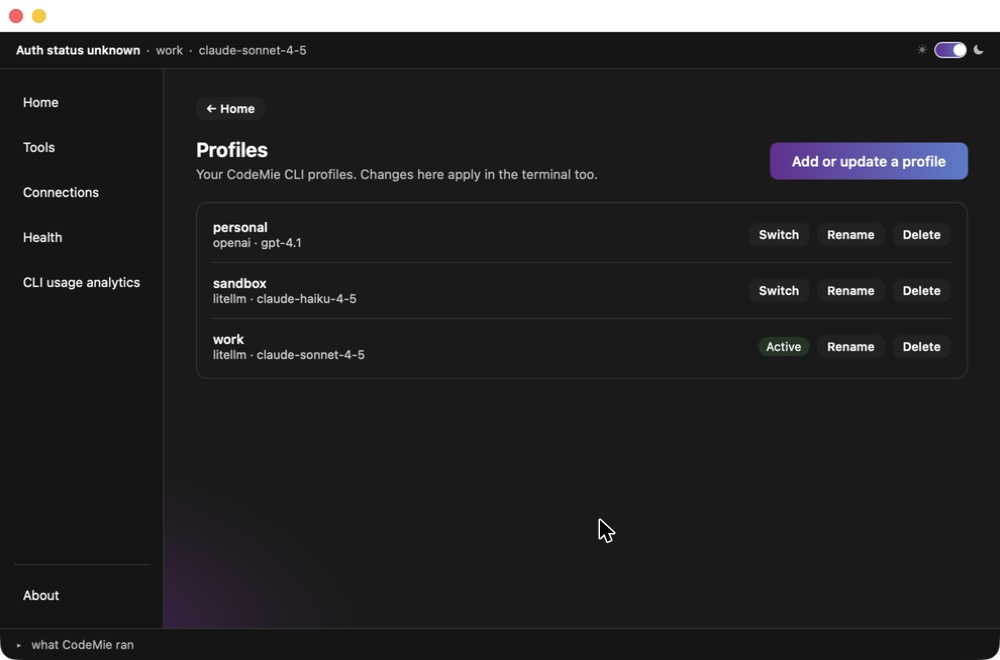
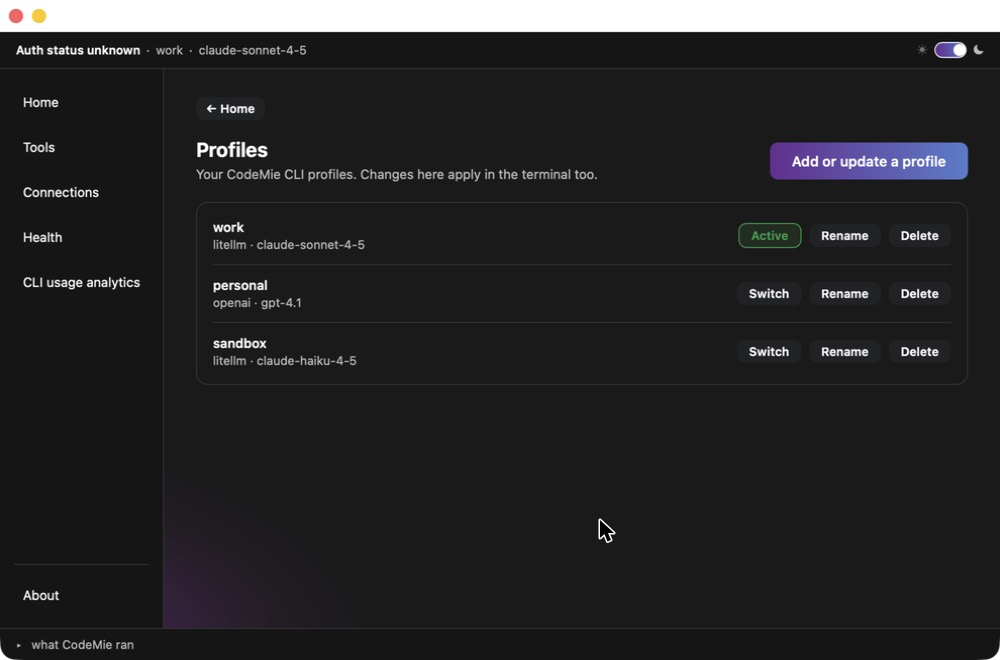
EPMCDME-14576 : Polish the Profiles screen
Row text and buttons now use the Tools sizes, and the Active marker is
Home's green pill at button height. The active profile is listed first.
The rename field no longer auto-capitalises or corrects the name: macOS
turned "work-old" into "Work-old" and the CLI saved it that way, the same
bug setup had in EPMCDME-15385. A failure or notice from an earlier
action is cleared when the screen opens again.

diff --git a/ui/styles.css b/ui/styles.css
@@ -425,9 +425,11 @@ body::before {
 .profile-row:first-child { border-top: 0; }
 .profile-info { flex: 1; min-width: 0; }
 .profile-name { font-weight: 600; }
-.profile-sub, .profile-confirm, .profile-notice { font-size: 12px; opacity: 0.8; }
-.profile-badge { font-size: 12px; padding: 2px 8px; border-radius: 10px; background: rgba(46, 160, 67, 0.2); }
-.profile-row .btn { white-space: nowrap; width: auto; padding: 4px 10px; font-size: 12px; }
+/* Text and buttons match the Tools rows (.step-sub, .agent-actions .btn). */
+.profile-sub, .profile-confirm, .profile-notice { color: var(--muted); font-size: 12px; margin-top: 2px; }
+.profile-row .btn { width: auto; padding: 4px 12px; font-size: 12px; white-space: nowrap; }
+/* The Active marker is Home's green "active" pill, at the buttons' size. */
+.profile-badge { box-sizing: border-box; padding: 4px 12px; font-size: 12px; font-weight: 600; border-radius: var(--radius-lg); color: var(--green); border: 1px solid currentColor; background: rgba(46, 160, 67, 0.14); white-space: nowrap; }
 /* ---- Profiles screen (EPMCDME-14576), laid out like Connections ---- */
 #profiles-body { flex: 1; min-height: 0; display: flex; flex-direction: column; padding: 28px 32px; gap: 18px; }
 #profiles-back { align-self: flex-start; width: auto; padding: 4px 10px; font-size: 12px; }

diff --git a/ui/profile-list-view.js b/ui/profile-list-view.js
@@ -28,7 +28,9 @@ export function renderProfileList(container, state, handlers = {}) {
   container.innerHTML = '';
 
   const list = el('div', 'profile-list');
-  for (const p of state.profiles) {
+  // The active profile first, the rest in the config's order (alphabetical).
+  const rows = [...state.profiles].sort((a, b) => Number(b.active) - Number(a.active));
+  for (const p of rows) {
     const row = el('div', 'profile-row');
     const info = el('div', 'profile-info');
     const busy = state.busy;
@@ -37,6 +39,11 @@ export function renderProfileList(container, state, handlers = {}) {
       const input = el('input', 'profile-rename-input');
       // The typed name is kept with the row, so a re-read (the window coming
       // back to the front) does not wipe it.
+      // macOS capitalises "work" to "Work" in a plain field, and the CLI then
+      // saves that name (EPMCDME-15385, fixed the same way in setup-view.js).
+      input.setAttribute('autocapitalize', 'off');
+      input.setAttribute('autocorrect', 'off');
+      input.spellcheck = false;
       input.value = ui.draft ?? p.name;
       input.oninput = () => { ui.draft = input.value; };
       info.append(input);

diff --git a/ui/profile-list-controller.js b/ui/profile-list-controller.js
@@ -63,6 +63,11 @@ export function createProfileListController({ bridge, onChanged = () => {} }) {
       const now = state.profiles.find((p) => p.active);
       state.notice = now ? `Active profile now: ${now.name}` : null;
     }),
+    // A message belongs to the action that caused it, not to the next visit.
+    clearMessages: () => {
+      state.failure = null;
+      state.notice = null;
+    },
     subscribe: (fn) => { subscribers.push(fn); },
   };
 }

diff --git a/ui/renderer.js b/ui/renderer.js
@@ -204,6 +204,7 @@ const reloadProfiles = () => {
   if (!profileList.state.busy) profileList.load();
 };
 function openProfiles() {
+  if (!profileList.state.busy) profileList.clearMessages();
   showView('profiles');
   drawProfileList();
   reloadProfiles();
